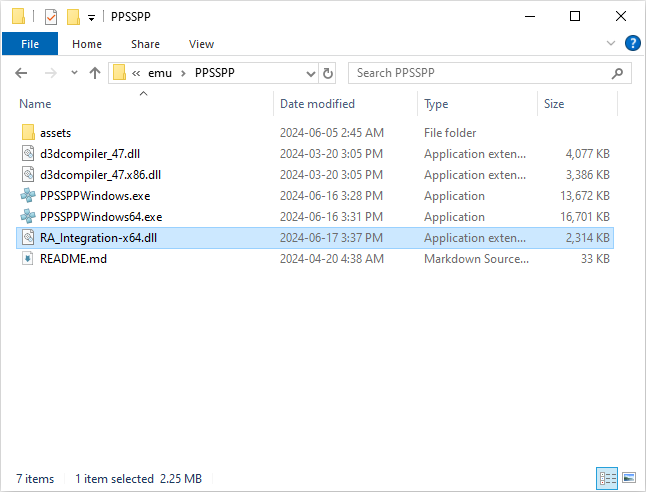
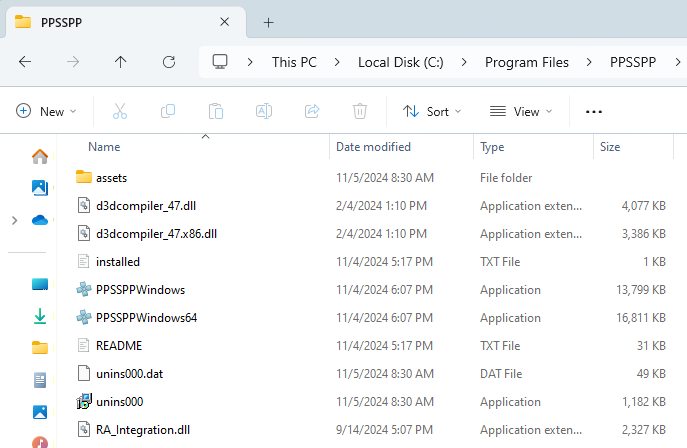
Update PPSSPP developer setup documentation (#129)
* Update emulator-setup-for-developers.md

Updating documentation for PPSSPP setup as the latest public release now supports RAIntegration for developers. It also seems to have a DLL rename.

* Update ppsspp-raintegration-folder.png

This changes the visual filename that the reader sees when attempting to set up PPSSPP with RA_Integration.dll so that it matches the written description provided.

* Update descriptions for clarity

Also removes section for portable install so that the whole thing flows a bit better.

diff --git a/docs/developer-docs/emulator-setup-for-developers.md b/docs/developer-docs/emulator-setup-for-developers.md
@@ -75,21 +75,27 @@ When an update for RAIntegration is available, it will ask you if you want to up
 
 ## PPSSPP
 
-PPSSPP currently requires a development build for RAIntegration support:
+PPSSPP supports RAIntegration in its main builds as of version 1.18. You can grab the latest version here:
+
+- **https://www.ppsspp.org/download/**
+
+If you want to download PPSSPP as a portable application, bypassing the need for installation, you can grab one of the development builds from here:
 
 - **https://www.ppsspp.org/devbuilds/**
 
-Ensure that the file is named `RA_Integration-x64.dll` and place it in PPSSPP's main folder.
-
-![RAIntegration in PPSSPP folder](/public/ppsspp-raintegration-folder.png)
-
-Then launch `PPSSPPWindows64.exe` and go to Settings -> Tools -> RetroAchievements. Here you can log in under the Account tab. Under the Developer Tools tab, you can enable RAIntegration. Enabling unofficial achievements may also be necessary in order to view them with the developer tools.
+After running the installer or extracting to a location of your choice, launch PPSSPPP and go to Settings -> Tools -> RetroAchievements. Here you can log in under the Account tab. Under the Developer Tools tab, you can enable RAIntegration. Enabling unofficial achievements may also be necessary in order to view them with the developer tools.
 
 ![RAIntegration setting in PPSSPP](/public/ppsspp-raintegration-setting.png)
 
 Afterwards, exit PPSSPP and reopen it to load RAIntegration. RetroAchievements will have its own menu with the developer tools.
 
 ![RAIntegration menu in PPSSPP](/public/ppsspp-raintegration-menu.png)
+
+If you grabbed a development build, you may need to manually place a copy of RA_Integration.dll into the folder. Ensure it is named `RA_Integration.dll` and place it in PPSSPP's main folder.
+
+![RAIntegration in PPSSPP folder](/public/ppsspp-raintegration-folder.png)
+
+Once you've done that, restart PPSSPP and it should recognize RAIntegration successfully.
 
 ## Dolphin
 
